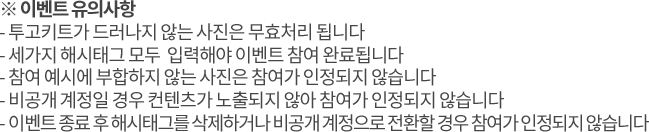
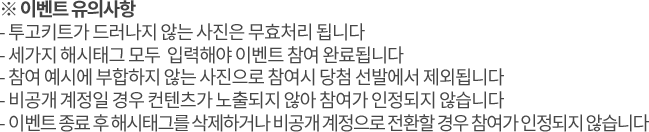
문구 수정

Changed region(s): [[0.339, 0.5152, 0.8012, 0.6667]]

diff --git a/index2.php b/index2.php
@@ -72,7 +72,7 @@
                         <ul>
                             <li>- 투고키트가 드러나지 않는 사진은 무효처리 됩니다</li>
                             <li>- 세가지 해시태그 모두 입력해야 이벤트 참여 완료됩니다</li>
-                            <li>- 참여 예시에 부합하지 않는 사진은 참여가 인정되지 않습니다</li>
+                            <li>- 참여 예시에 부합하지 않는 사진으로 참여시 당첨 선발에서 제외됩니다</li>
                             <li>- 비공개 계정일 경우 컨텐츠가 노출되지 않아 참여가 인정되지 않습니다</li>
                             <li>- 이벤트 종료 후 해시태그를 삭제하거나 비공개 계정으로 전환할 경우 참여가 인정되지 않습니다</li>
                         </ul>
